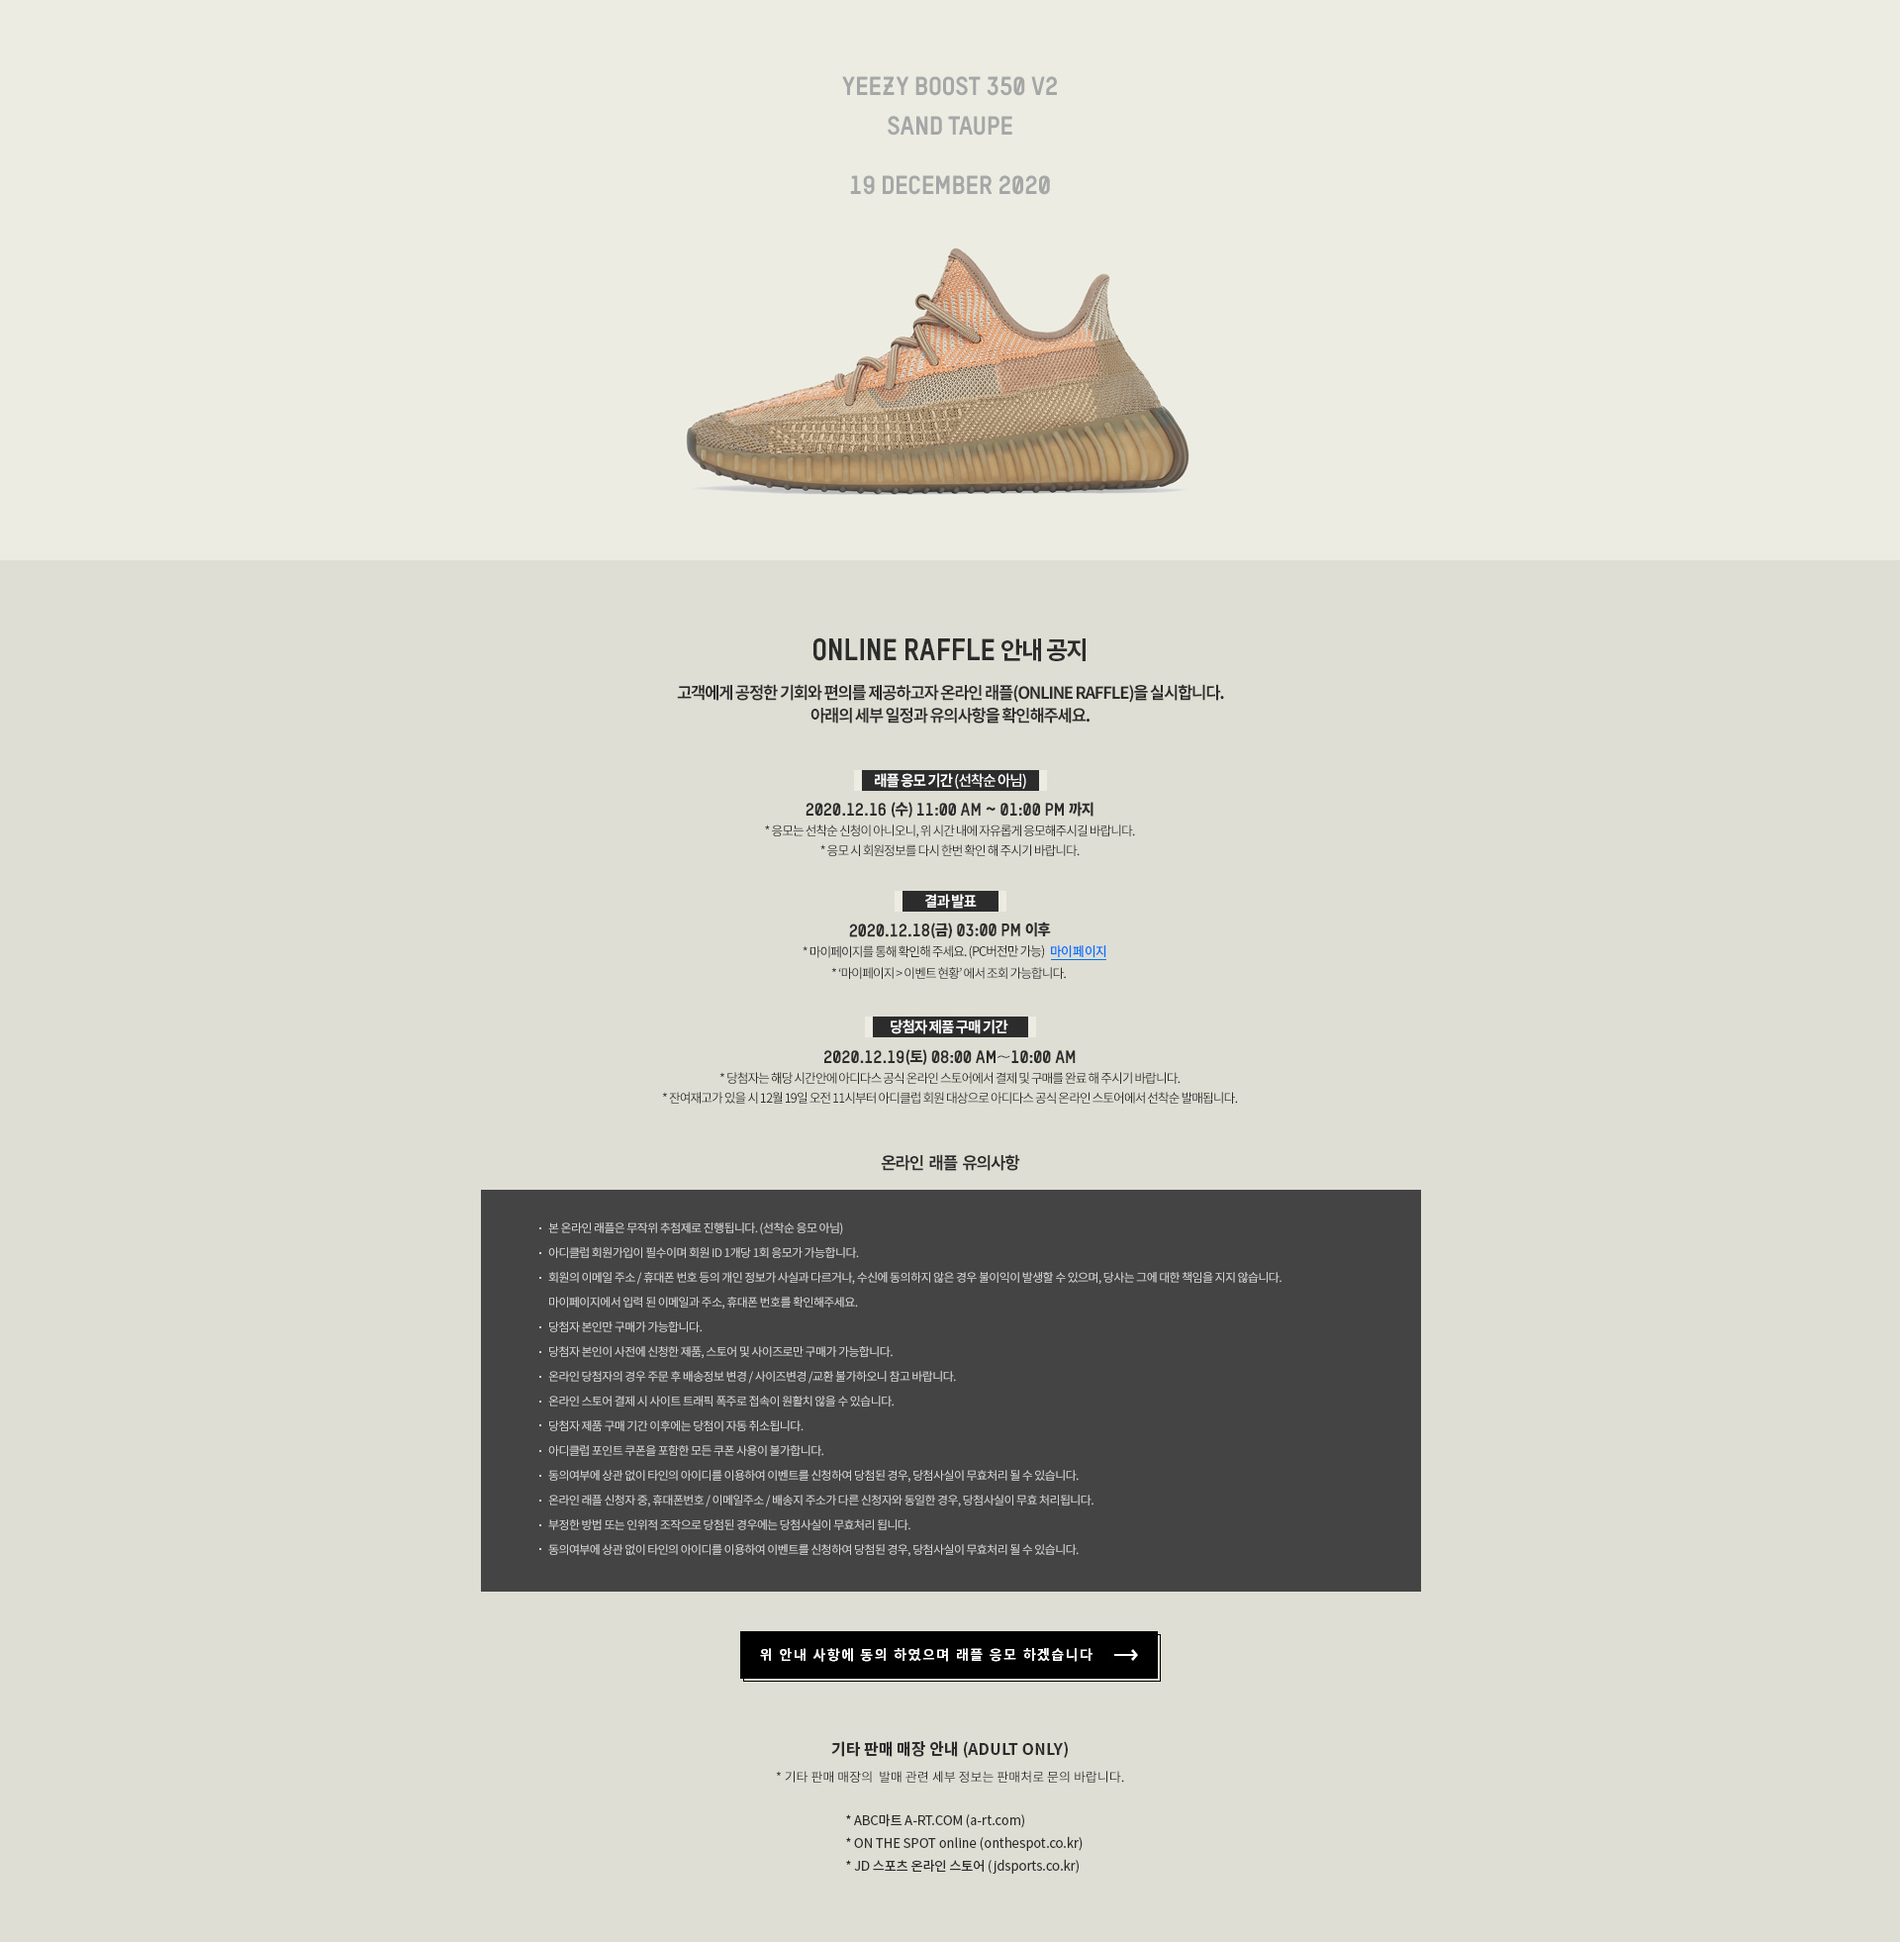
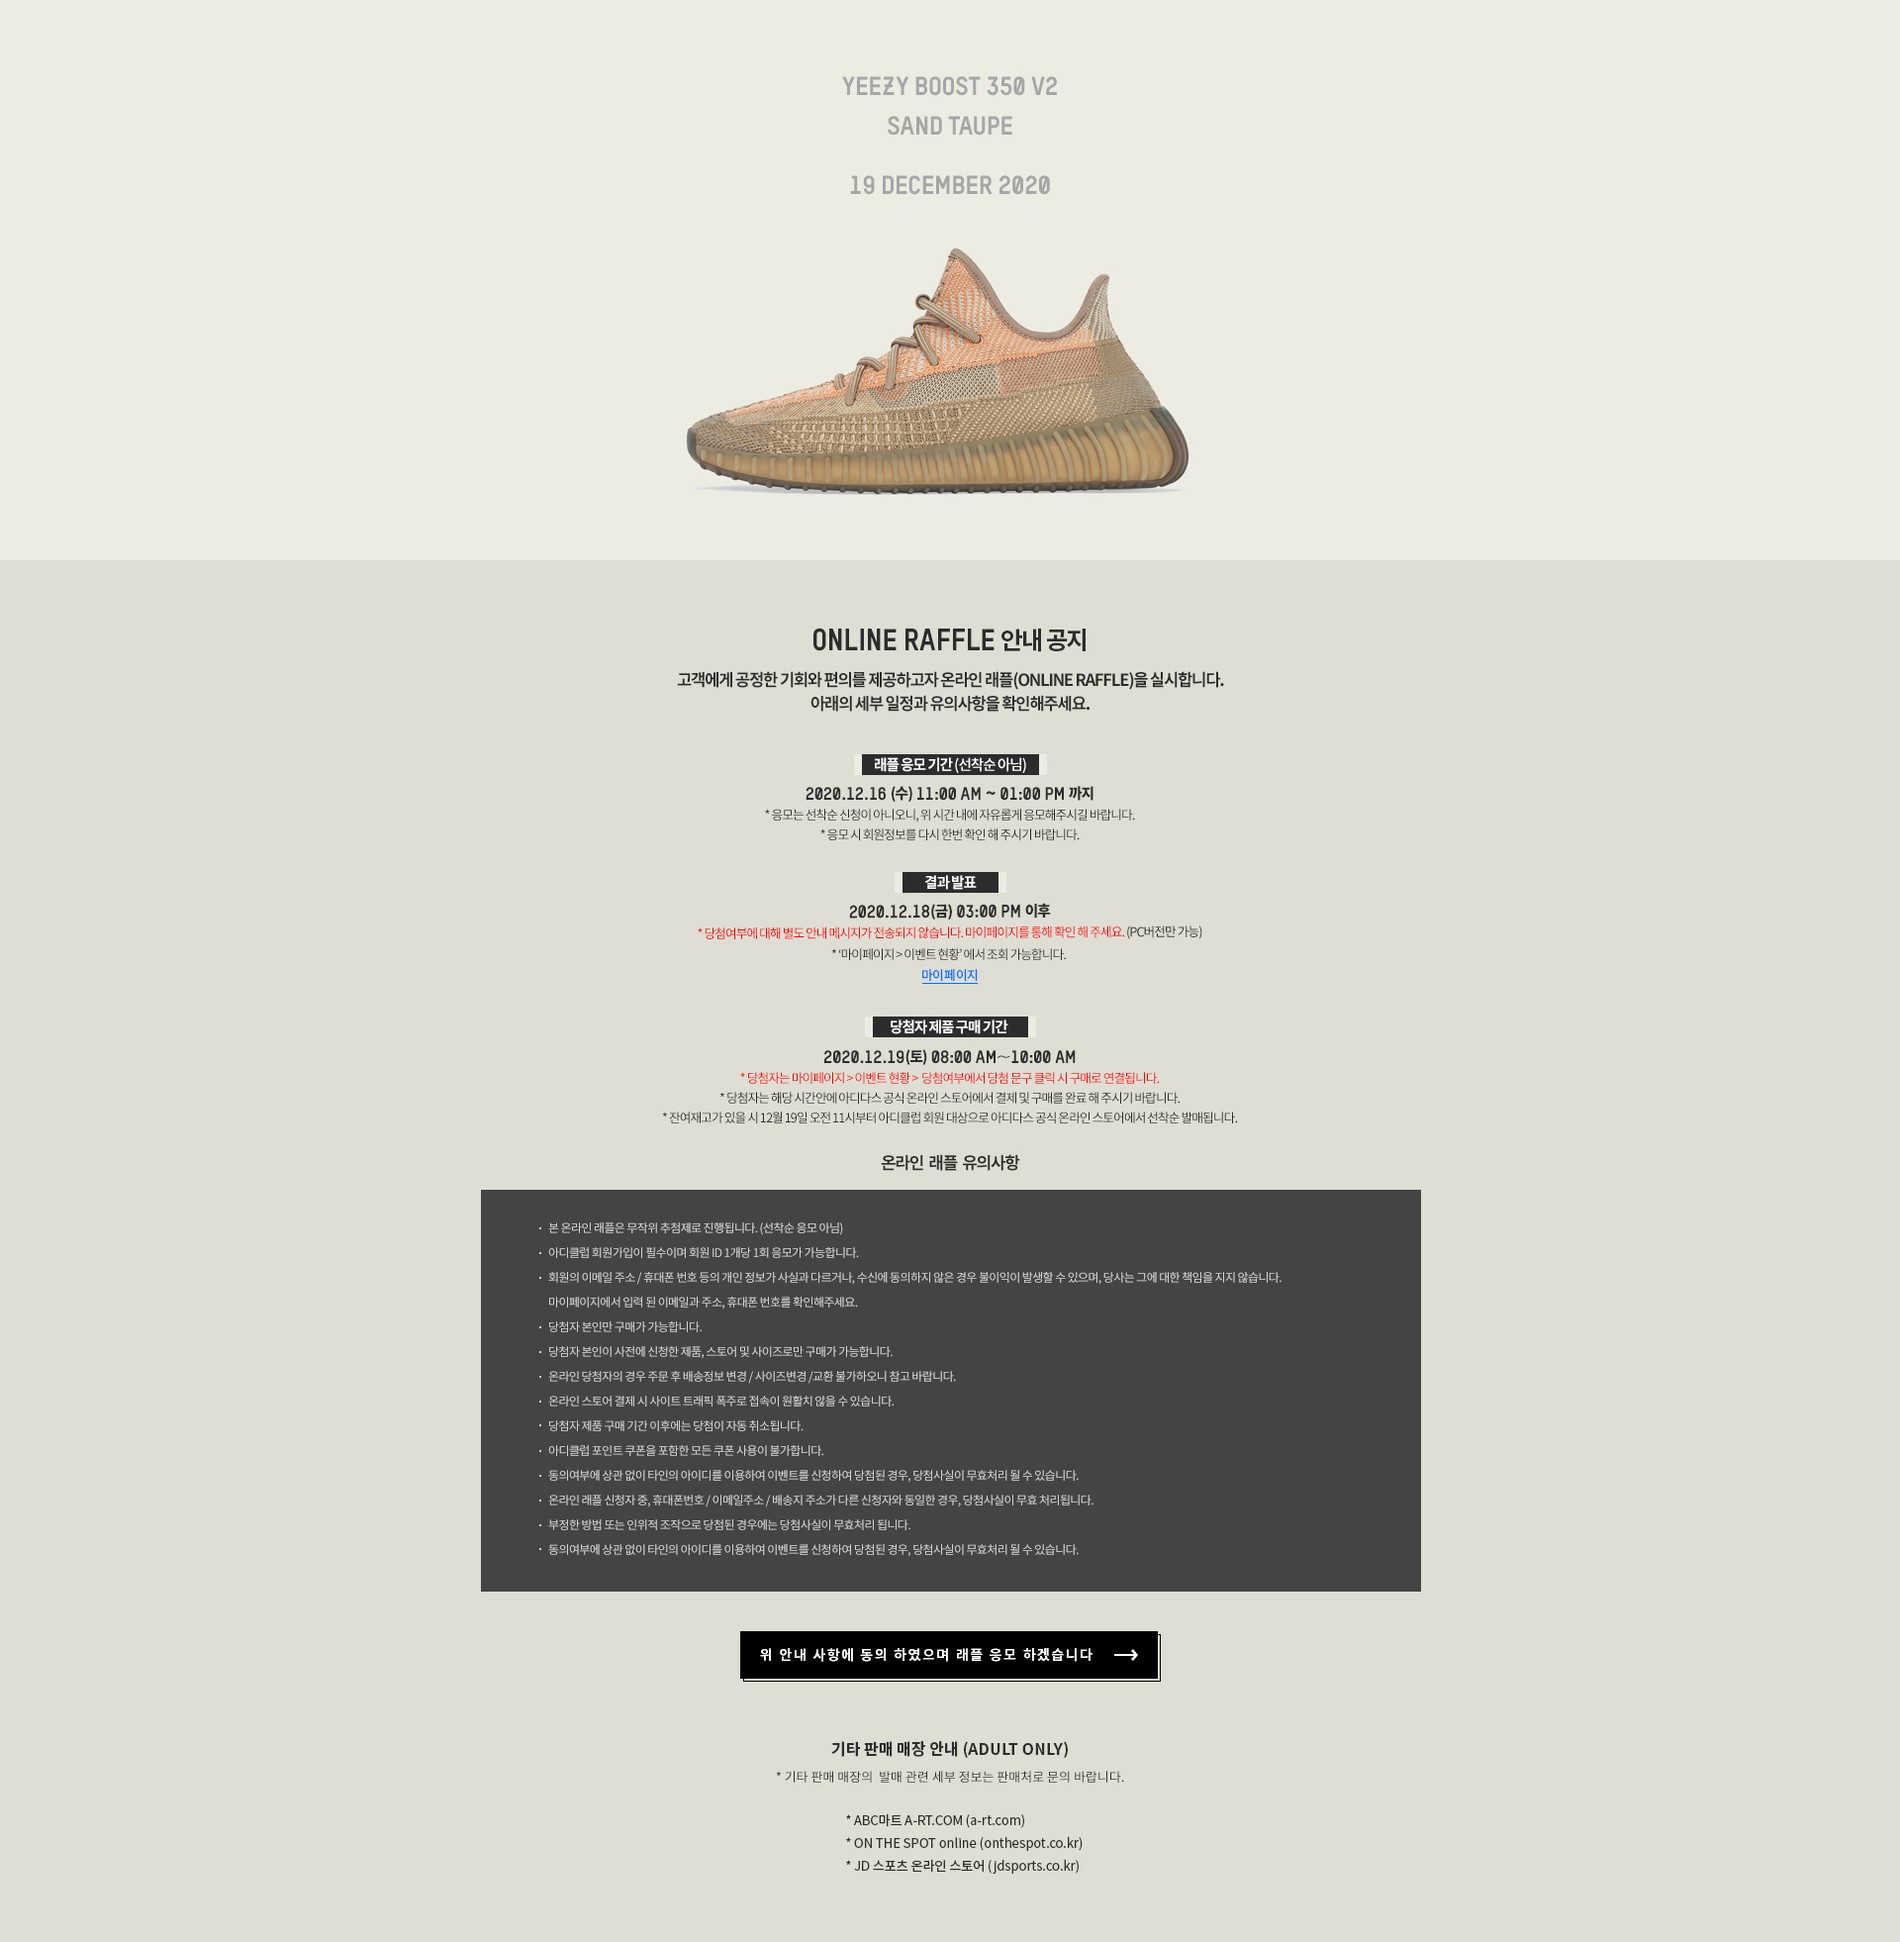
이지인포

Changed region(s): [[0.3438, 0.3109, 0.6562, 0.5907]]

diff --git a/front/html/adidas/html/pn/YEEZY_INFORMATION.html b/front/html/adidas/html/pn/YEEZY_INFORMATION.html
@@ -9,9 +9,12 @@
 						<div class="bg">
 							<img src="/images/adidas/2020/event/yeezy_information/1216/201216_a_yeezy_raffle_DT.jpg" alt="" border="0" usemap="#map01">
 							<map name="map01" id="map01" >
-								<area shape="rect" onfocus="blur();" coords="747,1647,1175,1699"
-									href="https://shop.adidas.co.kr/PF020620.action?pn=YEEZY350V2SAND" campaign-label="구매하기" alt="">
+								<area shape="rect" onfocus="blur();" coords="930,978,991,997"
+									href="https://shop.adidas.co.kr/PF060701.action" campaign-label="마이페이지" alt="">
+									<area shape="rect" onfocus="blur();" coords="746,1646,1177,1700"
+									href="https://shop.adidas.co.kr/PF020620.action?pn=YEEZY350V2SAND" campaign-label="응모하기" alt="">								
 							</map>
+	
 						</div>
 					</div>
 	

diff --git a/front/html/adidas/2020/event/yeezy_information/build/index.html b/front/html/adidas/2020/event/yeezy_information/build/index.html
@@ -49,9 +49,12 @@
 					<div class="bg">
 						<img src="/images/adidas/2020/event/yeezy_information/1216/201216_a_yeezy_raffle_DT.jpg" alt="" border="0" usemap="#map01">
 						<map name="map01" id="map01" >
-							<area shape="rect" onfocus="blur();" coords="747,1647,1175,1699"
-								href="https://shop.adidas.co.kr/PF020620.action?pn=YEEZY350V2SAND" campaign-label="구매하기" alt="">
+							<area shape="rect" onfocus="blur();" coords="930,978,991,997"
+								href="https://shop.adidas.co.kr/PF060701.action" campaign-label="마이페이지" alt="">
+								<area shape="rect" onfocus="blur();" coords="746,1646,1177,1700"
+								href="https://shop.adidas.co.kr/PF020620.action?pn=YEEZY350V2SAND" campaign-label="응모하기" alt="">								
 						</map>
+
 					</div>
 				</div>
 

diff --git a/front/html/adidas/2020/event/yeezy_information/index.html b/front/html/adidas/2020/event/yeezy_information/index.html
@@ -47,9 +47,12 @@
 					<div class="bg">
 						<img src="/images/adidas/2020/event/yeezy_information/1216/201216_a_yeezy_raffle_DT.jpg" alt="" border="0" usemap="#map01">
 						<map name="map01" id="map01" >
-							<area shape="rect" onfocus="blur();" coords="747,1647,1175,1699"
-								href="https://shop.adidas.co.kr/PF020620.action?pn=YEEZY350V2SAND" campaign-label="구매하기" alt="">
+							<area shape="rect" onfocus="blur();" coords="930,978,991,997"
+								href="https://shop.adidas.co.kr/PF060701.action" campaign-label="마이페이지" alt="">
+								<area shape="rect" onfocus="blur();" coords="746,1646,1177,1700"
+								href="https://shop.adidas.co.kr/PF020620.action?pn=YEEZY350V2SAND" campaign-label="응모하기" alt="">								
 						</map>
+
 					</div>
 				</div>
 
